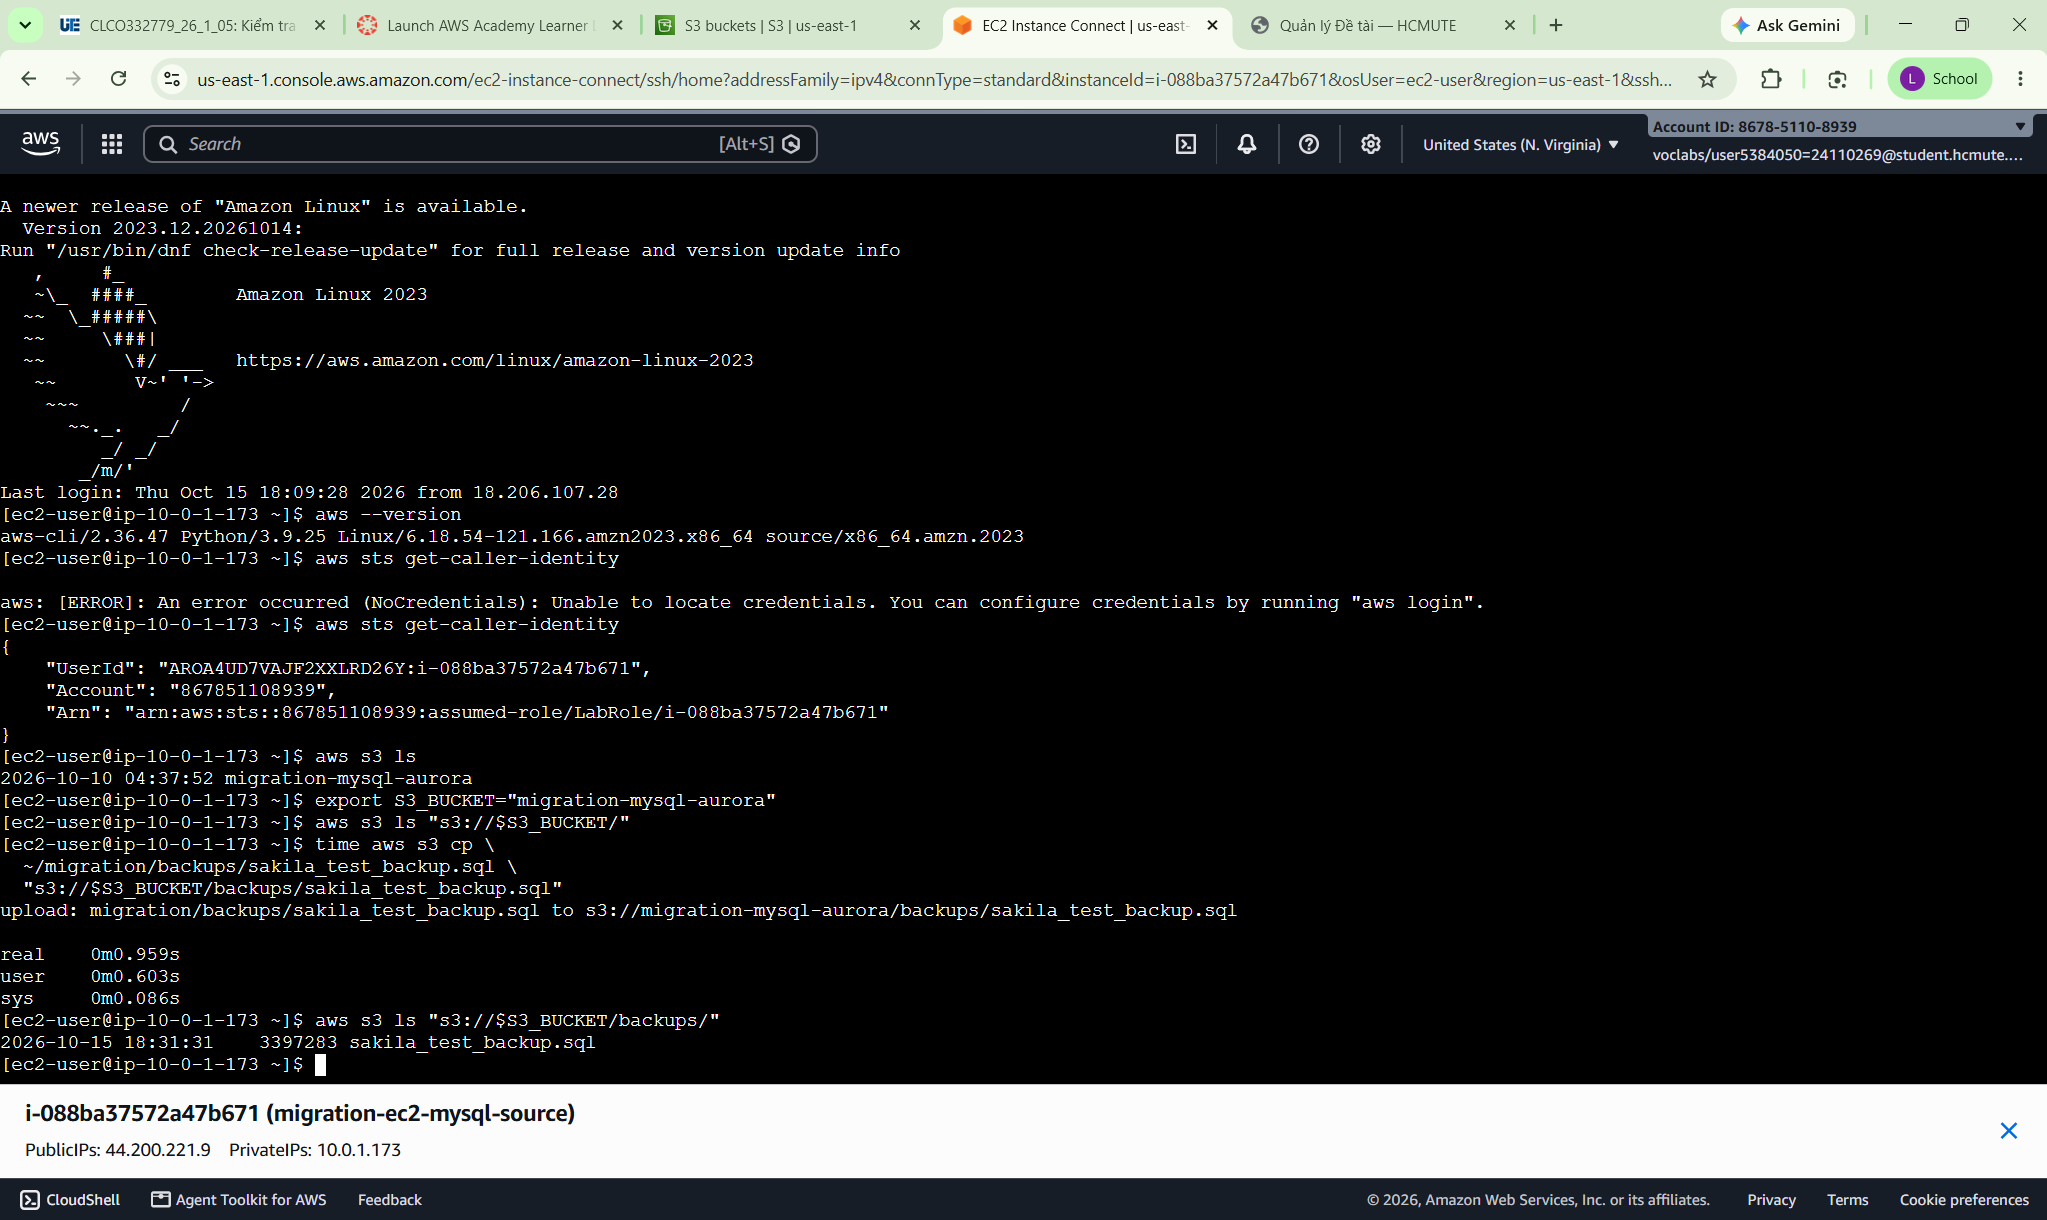
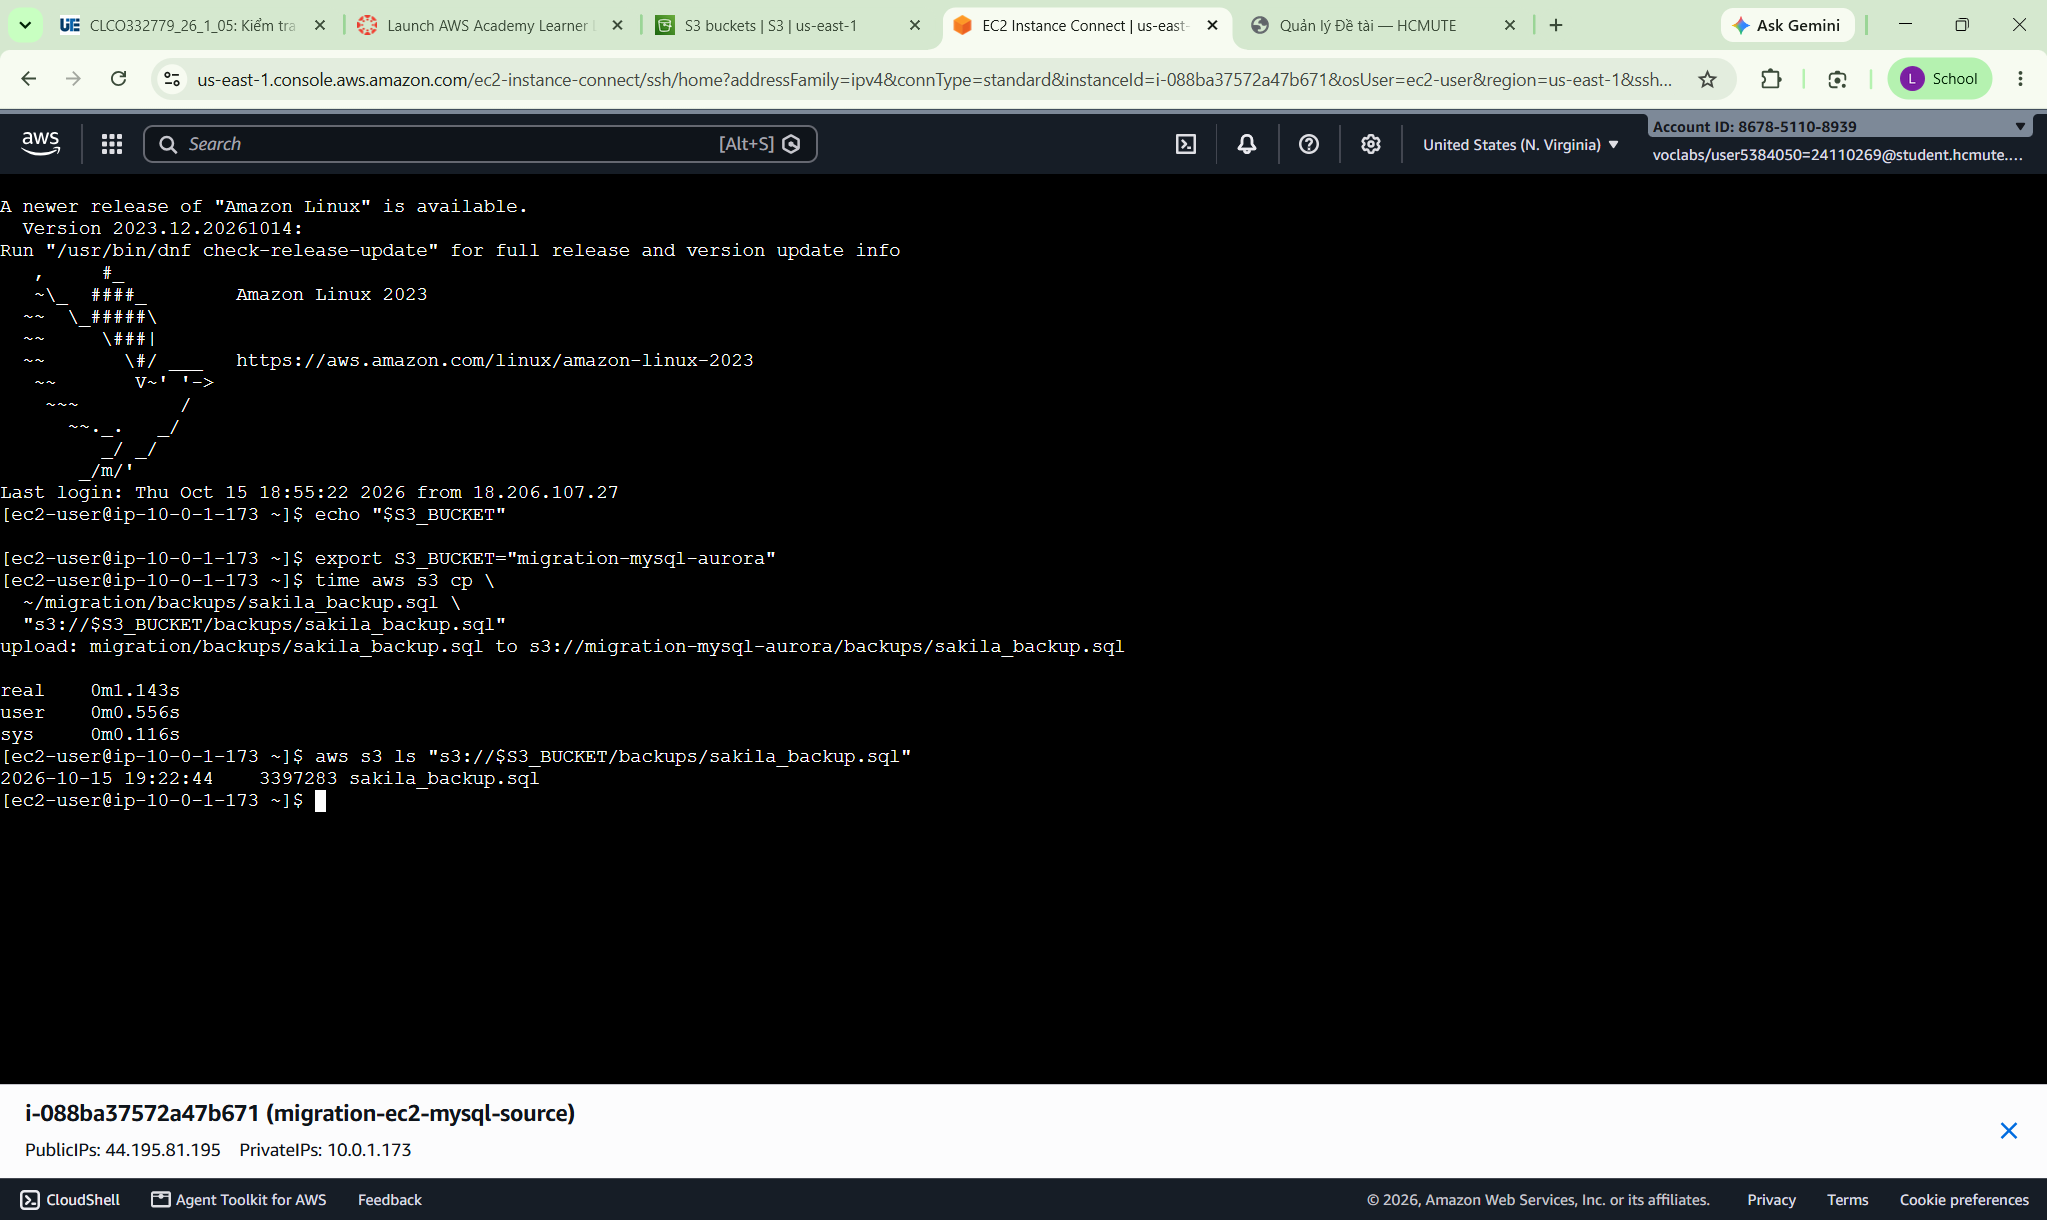
sửa báo cáo

diff --git a/doc/24110316_24110269_Bao-cao-tien-do-tuan-2.md b/doc/24110316_24110269_Bao-cao-tien-do-tuan-2.md
@@ -23,13 +23,13 @@ https://github.com/levanlan2709-wq/database-MySQL-on-EC2.git
 | Quỳnh | Kiểm thử kết nối mạng của EC2 | 100%  | 1 giờ | [Testing connection network EC2]()
 | Quỳnh | Cài đặt MySQL Server trên EC2 | 100%  | 2 giờ | [Install MySQL Server on EC2]()
 | Quỳnh | Import CSDL mẫu Sakila | 100% | 1 giờ | [Import Database Sakila]()
-| Quỳnh | Kiểm thử dữ liệu MySQL nguồn | 100% | 1 giờ
-| Quỳnh | Tạo file backup bằng mysqldump | 
-| Quỳnh | Thực hiện migration dữ liệu sang Aurora |
-| Quỳnh | Đối chiếu dữ liệu EC2 và Aurora |
-| Quỳnh | Kiểm tra điều kiện trước migration |
-| Quỳnh | Thực hiện Offline Migration bằng `mysqldump/restore` |
-| Quỳnh | Kiểm tra số bảng, số bản ghi trước và sau migration |
+| Quỳnh | Kiểm thử dữ liệu MySQL nguồn | 100% | 1 giờ | [Testing data MySQL]()
+| Quỳnh | Tạo file backup bằng mysqldump | 100% | | [Create file backup by mysqldump]()
+| Quỳnh | Thực hiện migration dữ liệu sang Aurora | 100% | | [migration data to Aurora]()
+| Quỳnh | Đối chiếu dữ liệu EC2 và Aurora | 100% | | [EC2 and Aurora data reconciliation]()
+| Quỳnh | Kiểm tra điều kiện trước migration | 100% | | [Check conditions before migration]()
+| Quỳnh | Thực hiện Offline Migration bằng `mysqldump/restore` | 100% | | [Thực hiện Offline Migration]()
+| Quỳnh | Kiểm tra số bảng, số bản ghi trước và sau migration | 100% | | [Check table numbers, record numbers before and after migration]()
 | Lân | Tạo DB Subnet Group cho Aurora | 100% | 1 giờ |[Create DB Subnet group](https://github.com/levanlan2709-wq/database-MySQL-on-EC2/blob/e5d3d3f607e6a36124e6880dfd6f539652d42f12/Screenshots_week_2/Create%20DB%20Subnet%20group.png)
 | Lân | Kiểm tra security group EC2/Aurora | 100% | 1 giờ | [Check security group](https://github.com/levanlan2709-wq/database-MySQL-on-EC2/blob/e5d3d3f607e6a36124e6880dfd6f539652d42f12/Screenshots_week_2/Check%20aurora-db-subnet-group.png)
 | Lân | Tạo và cấu hình Aurora MySQL Cluster | 100% | 2 giờ| [Create and config Aurora MySQL Cluster](https://github.com/levanlan2709-wq/database-MySQL-on-EC2/blob/e5d3d3f607e6a36124e6880dfd6f539652d42f12/Screenshots_week_2/Create%20DB.png)
@@ -37,8 +37,8 @@ https://github.com/levanlan2709-wq/database-MySQL-on-EC2.git
 | Lân | Kiểm thử kết nối EC2 → Aurora qua TCP 3306 | 100% | 1 giờ | [Testing connection EC2 through TCP](https://github.com/levanlan2709-wq/database-MySQL-on-EC2/blob/cfe958fcfe96dfd411f845267fd04458dc55866a/Screenshots_week_2/DNS%20resolution%20and%20TCP.png)
 | Lân | Kiểm thử kết nối EC2 → S3 | 100% | 1 giờ | [Testing connection EC2 to S3]()
 | Lân | Upload file backup lên S3 | 100% | 1 giờ | [Upload file backup]()
-| Lân | Kiểm thử dữ liệu Aurora sau migration |
-| Lân | Thực hiện đo downtime plan thực tế |
+| Lân | Kiểm thử dữ liệu Aurora sau migration | 100% | 1 giờ | [Testing data Aurora after migration]()
+| Lân | Thực hiện đo downtime plan thực tế | 100% | 1 giờ | [actual downtime plan]()
 | Lân | Thực hiện Downtime Plan đã xây dựng |
 | Lân | Đo thời gian backup, truyền dữ liệu và restore |
 | Lân | Kiểm thử Rollback Plan |
